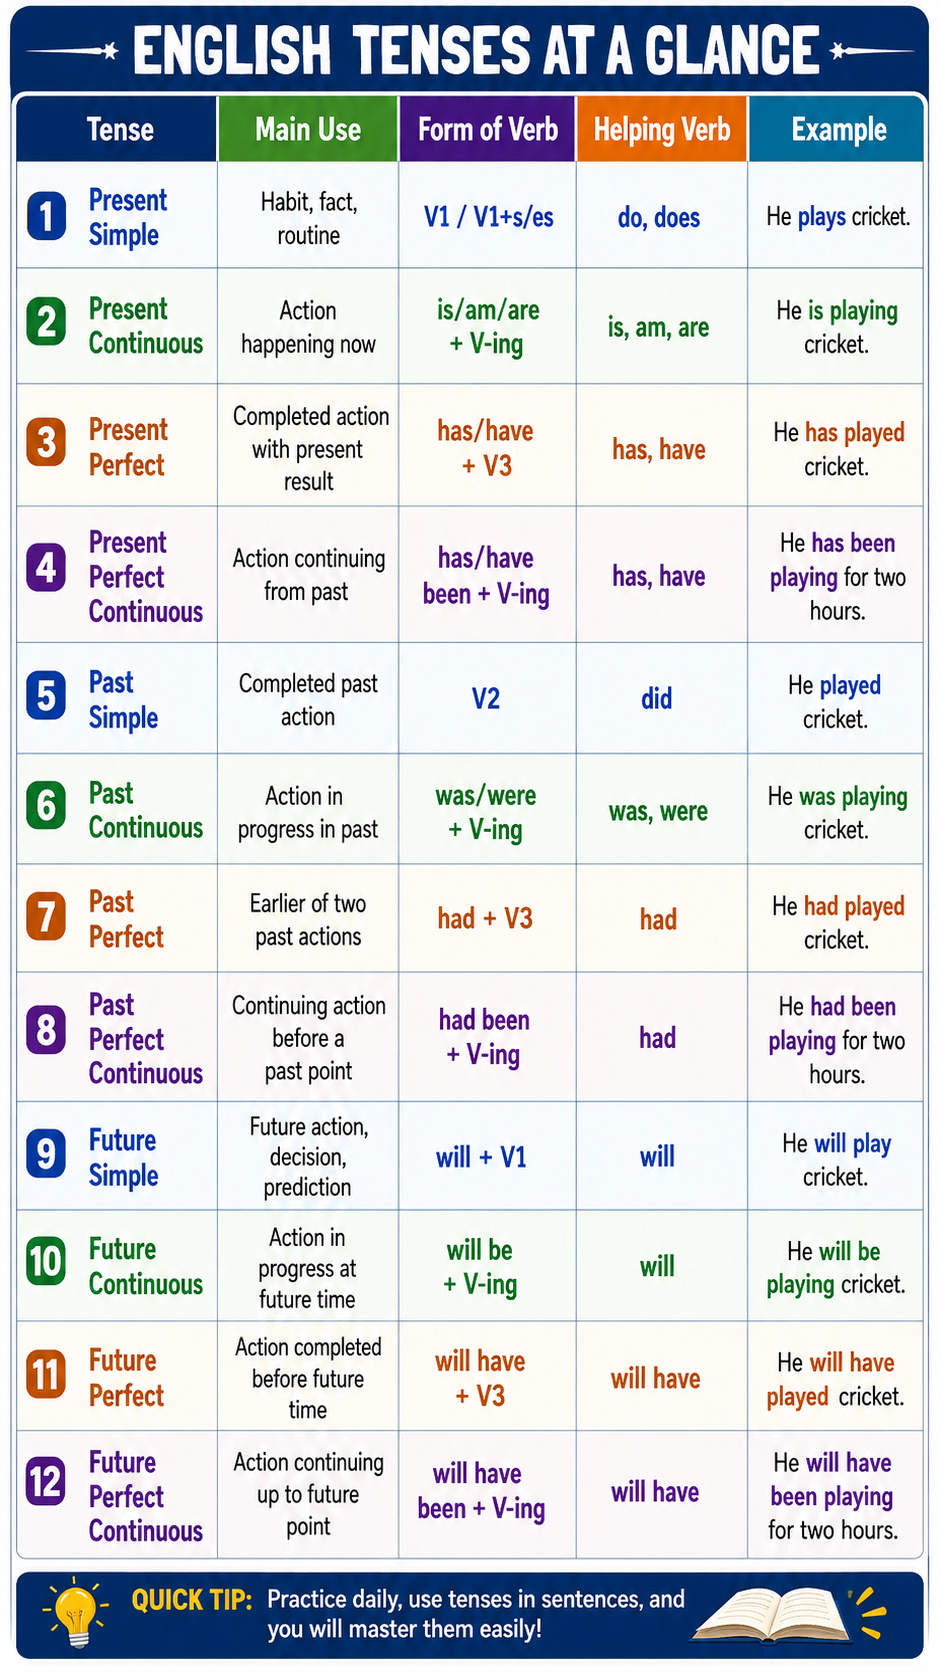
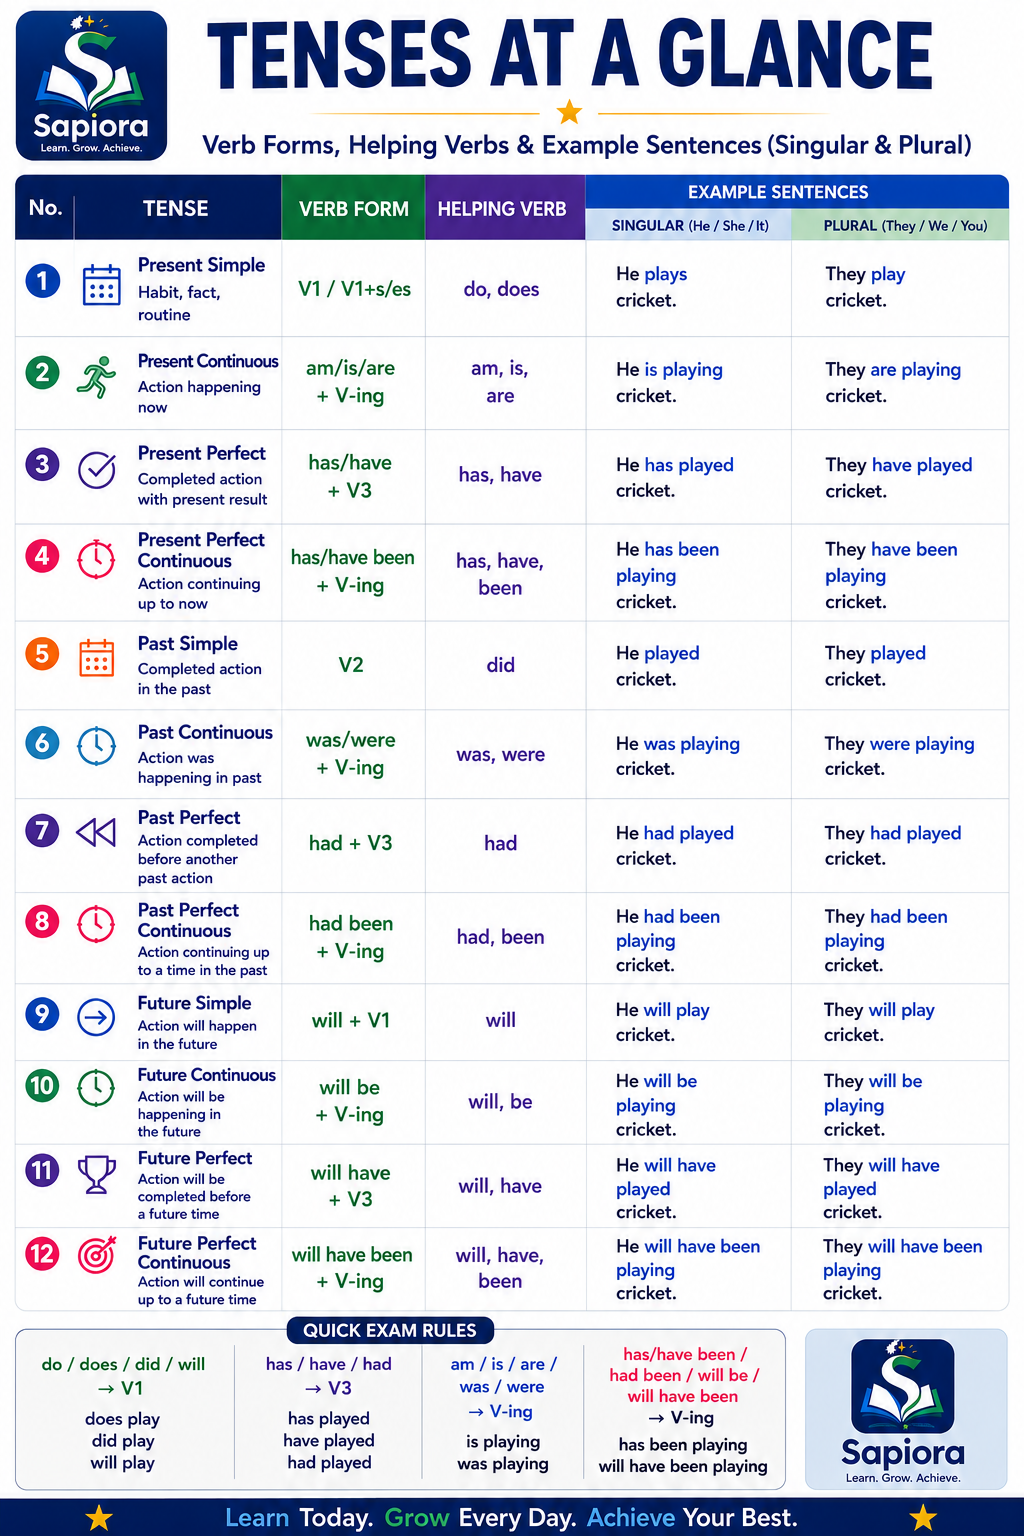
Add tense overview table and finalize color rendering

diff --git a/lib/modules/grammar/presentation/pages/lesson_page.dart b/lib/modules/grammar/presentation/pages/lesson_page.dart
@@ -173,11 +173,15 @@ class _LessonView extends StatelessWidget {
           GrammarSectionCard(
             icon: Icons.info_outline,
             title: 'Introduction',
-            child: Text(lesson.introduction,
-                style: (lesson.id.startsWith('tenses/')
-                        ? theme.textTheme.bodySmall
-                        : theme.textTheme.bodyLarge)
-                    ?.copyWith(height: lesson.id.startsWith('tenses/') ? 1.3 : 1.5)),
+            child: lesson.id.startsWith('tenses/')
+                ? TenseRichText(
+                    text: lesson.introduction,
+                    style: theme.textTheme.bodySmall?.copyWith(height: 1.3),
+                  )
+                : Text(
+                    lesson.introduction,
+                    style: theme.textTheme.bodyLarge?.copyWith(height: 1.5),
+                  ),
           ),
 
         if (lesson.urduExplanation.isNotEmpty)
@@ -201,11 +205,15 @@ class _LessonView extends StatelessWidget {
           GrammarSectionCard(
             icon: Icons.menu_book_outlined,
             title: 'English Explanation',
-            child: Text(lesson.englishExplanation,
-                style: (lesson.id.startsWith('tenses/')
-                        ? theme.textTheme.bodySmall
-                        : theme.textTheme.bodyLarge)
-                    ?.copyWith(height: lesson.id.startsWith('tenses/') ? 1.3 : 1.5)),
+            child: lesson.id.startsWith('tenses/')
+                ? TenseRichText(
+                    text: lesson.englishExplanation,
+                    style: theme.textTheme.bodySmall?.copyWith(height: 1.3),
+                  )
+                : Text(
+                    lesson.englishExplanation,
+                    style: theme.textTheme.bodyLarge?.copyWith(height: 1.5),
+                  ),
           ),
 
         if (lesson.types.isNotEmpty) ...<Widget>[
@@ -485,6 +493,13 @@ class _NounLandingView extends StatelessWidget {
             lesson: lesson,
             accents: accents,
           ),
+        if (lesson.id == 'tenses/overview') ...<Widget>[
+          const SizedBox(height: 12),
+          const _LandingSectionLabel(title: 'Tenses at a Glance'),
+          const _ZoomableFooterImage(
+            imagePath: 'assets/grammar/images/english_tenses_at_a_glance.png',
+          ),
+        ],
         if (lesson.footerImage.isNotEmpty) ...<Widget>[
           const SizedBox(height: 12),
           const _LandingSectionLabel(title: 'Quick Reference Guide'),

diff --git a/lib/modules/grammar/presentation/widgets/grammar_section_card.dart b/lib/modules/grammar/presentation/widgets/grammar_section_card.dart
@@ -54,6 +54,23 @@ class GrammarSectionCard extends StatelessWidget {
 
 /// A simple leading-bullet row used inside section cards for rules, notes and
 /// tips lists.
+class TenseRichText extends StatelessWidget {
+  const TenseRichText({required this.text, this.style});
+  final String text;
+  final TextStyle? style;
+
+  @override
+  Widget build(BuildContext context) {
+    final ThemeData theme = Theme.of(context);
+    return Text.rich(
+      TextSpan(
+        style: style ?? theme.textTheme.bodySmall?.copyWith(height: 1.3),
+        children: _highlightRuleDetails(text, const Color(0xFF42A5F5)),
+      ),
+    );
+  }
+}
+
 class GrammarBullet extends StatelessWidget {
     const GrammarBullet({
     super.key,
@@ -91,7 +108,7 @@ class GrammarBullet extends StatelessWidget {
                 children: _highlightRuleDetails(
                   text,
                   const Color(0xFF42A5F5),
-                  defaultColor: compact ? const Color(0xFF64B5F6) : null,
+                  defaultColor: null,
                 ),
               ),
             ),
@@ -119,10 +136,6 @@ List<TextSpan> _highlightRuleDetails(
       continue;
     }
     if (!marker.hasMatch(line) && _looksLikeExampleLine(line)) {
-      spans.add(TextSpan(
-        text: 'Example: ',
-        style: TextStyle(color: highlightColor, fontWeight: FontWeight.w700),
-      ));
       spans.addAll(_markupSpans(line, exampleColor));
       spans.add(const TextSpan(text: '\n'));
       continue;
@@ -159,10 +172,11 @@ List<TextSpan> _highlightRuleDetails(
 }
 
 bool _looksLikeExampleLine(String line) {
-  final String value = line.trim();
+  final String value = line.trim().replaceFirst(RegExp(r'^[.•]+\s*'), '');
   if (value.isEmpty || RegExp(r'[\u0600-\u06FF]').hasMatch(value)) return false;
   if (value.startsWith('❌') || value.startsWith('✅')) return true;
   if (!RegExp(r'[.!?]$').hasMatch(value)) return false;
+  if (RegExp(r'(Subject\s*\+|Formula:|\bV[123](?:-ing)?\b|\bAffirmative\b|\bNegative\b|\bInterrogative\b)').hasMatch(value)) return false;
   return RegExp(r'^(I|He|She|It|We|They|You|Ali|Sara|John|The students|The boy|The girl|Did |Does |Do |Has |Have |Had |Will |Am |Is |Are |Was |Were )').hasMatch(value);
 }
 

diff --git a/lib/core/constants/db_constants.dart b/lib/core/constants/db_constants.dart
@@ -243,7 +243,7 @@ abstract final class SearchHistoryConstants {
 abstract final class GrammarConstants {
   /// Bundled hierarchical topics tree (Category → Subcategory → Lesson).
   static const String topicsAssetPath = 'assets/grammar/grammar_topics.json';
-  static const String topicsDatasetVersion = 'grammar-topics-2026.08-pos-quiz-fixed-prepositions-mixed-v35';
+  static const String topicsDatasetVersion = 'grammar-topics-2026.08-pos-quiz-fixed-prepositions-mixed-v40';
   static const String topicsSeedVersionKey = 'grammar_topics_seed_version';
 
   /// Bundled JSON lessons data set (legacy flat model; superseded by the tree).
